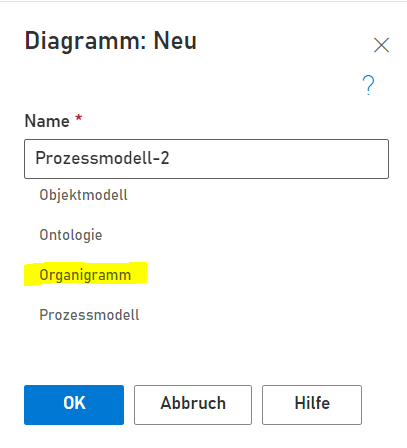
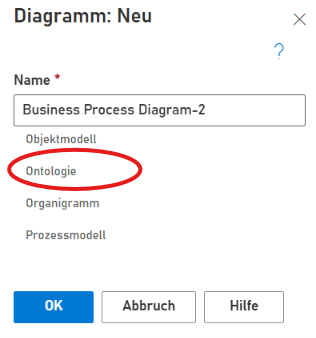
...

diff --git a/Meta Modellierung.md b/Meta Modellierung.md
@@ -1,0 +1,67 @@
+Als Meta Modellierung wird die das Ändern des Notationsschemas bezeichnet. Es wird das sogenannte Meta Modell der jeweiligen Vorlage angepasst.
+Es lassen sich Anpassungen am Verhalten und Aussehen der Modelle vornehmen, um bestimmte Informationen auszudrücken, die in einer Standardnotation nicht vorhanden oder darstellbar sind. So kann definiert werden welche Symbole verfügbar, welche Verbindungen zwischen Symbolen erlaubt sind und wie diese aussehen.
+
+Da Meta Modelle nur mit Vorsicht und Wissen darüber wie das SemTalk Objektmodell funktioniert geändert werden sollten, sind die Dialoge für Anpassungen am Meta Modelle nur für Benutzer mit Administrator oder Meta Modellierer Rolle erlaubt.
+
+# Eine neue Klasse graphisch anlegen und konfigurieren
+
+Soll z.B. ein neues Symbol eingeführt werden, dass einer neuen SemTalk Objektklasse entspricht, muss diese Klasse im SemTalk Objekt-Modell angelegt und konfiguriert werden.
+
+Es muss eine neue Unterklasse im bestehenden Metamodell angelegt werden. Im Beispielbild wird eine Klasse in einem BPMN Metamodell als Unterklasse der BPMN Flußobjekte angelegt. Dies ist ausschließlich als Beispiel zu sehen und kann sich je nach Notation und der Funktion, die die neue Klasse erfüllen soll, unterscheiden. Beispielhaft wird die Klasse "Anwendungssystemtyp" angelegt.
+
+Da dies nur teilweise über die Dialogoberfläche gemacht werden kann, empfiehlt sich die graphische Modellierung. Es werden 3 Schritte benötigt:
+
+### Ein Ontologie Diagramm anlegen und Klasse anlegen
+Über den Menüpunkt Diagramm --> Neu findet sich die Möglichkeit ein neues Diagramm anzulegen. Um Metamodell-Klassen zu erstellen muss der Diagrammtyp "Ontologie" ausgewählt werden.
+![Menü: Neues Diagramm ](./images/metamodellierung/DiagrammNeu.png)
+![Ontologie als neues DIagramm anlegen](./images/metamodellierung/DiagrammNeu2.png)
+
+Damit die neue Klasse als Semtalk Systemklasse erkannt wird, muss die Klasse über das Metamodell Symbol angelegt werden. Dieses muss aus der Schablone auf das Zeichenblatt gezogen werden.
+
+![Objektklasse formatieren](./images/metamodellierung/createmetamodelclass.png)
+
+Anschließend wird dem Symbol der Name der neuen Klasse gegeben.
+
+### Die Klasse in das Metamodell integrieren
+ Die neue Klasse muss nun in das bestehende Metamodell integriert werden. Dafür muss sie mit zwei bestimmten Metamodell-Klassen verbunden werden. 
+ Diese Klassen werden über das Diagramm Symbol dargestellt. Es wird daher das Diagram Symbol aus der Schablone auf das Zeichenblatt gezogen und dann mit Rechtsklick --> Auswählen ein Dialog geöffnet, welcher die bestehenden Klassen anzeigt. 
+* Verknüpfen mit der "Flußobjekt" Klasse: Es wird "Flußobjekt" ausgewählt. Das Diagramm Symbol hat nun diesen Namen. Anschließend wird eine Verbindung von der neuen Klasse zur Flußobjekt Klasse gezogen. Die Verbindung sollte automatisch als Oberklasse angelegt werden. Mit Rechtsklick auf den Verbinder und dort im Kontextmenü Eigenschaften kann überpürft werden um welche Art Verbindung es sich handelt. Falls es sich nicht um eine Oberklasse handelt muss die Verbindung geändert werden (Auswählen auf dem Verbinder).
+
+Hinweis: Evtl. ist es notwendig zuerst in den Optionen des Einfügen Dialogs die Anzeige für Metamodell Klassen zu aktivieren, damit diese eingefügt werden können.
+![Optionsmenü](./images/metamodellierung/expandOption.png)
+![Metamodellklassen anzeigen](./images/metamodellierung/expandOption2.png)
+
+![Klasse auswählen](./images/metamodellierung/ClassBPMNElement.png)
+
+* Verknüpfen mit der "BPMN Element" Klasse: Es wird "BPMN Element" ausgewählt. Das Diagramm Symbol hat nun diesen Namen. Anschließend wird eine Verbindung von der neuen Klasse zur BPMN Element Klasse gezogen. Der Verbindungstyp muss diesmal direkt ausgewählt werden (Rechtsklick --> Auswählen). Dort wird "löst aus" gewählt und als Verbindertyp gesetzt. Anschließend wird ein zweiter Verbinder gezogen und dafür "wird ausgelöst von" gewählt.
+
+![Verbindertyp auswählen](./images/metamodellierung/ClassAssoziation.png)
+
+
+Das Zeichenblatt sollte in etwa so aussehen:
+![Objektklasse formatieren](./images/metamodellierung/metamodelconfigureclass.png)
+
+### Graphische Formatierung der neuen Klasse
+
+Voraussetzung ist dass es das Symbol zur neuen Klasse bereits in der Schablone gibt. Dazu siehe [Wiki Seite: Schablonen-Editor](https://github.com/SemTalkOnline/SemTalkOnline_DE/wiki/Schablonen-Editor).
+
+Wie ein Symbol der neuen Klasse auf dem Zeichenblatt dargestellt wird, kann ebenfalls konfiguriert werden.
+Dafür wird der Formatierungsdialog genutzt. Um die Formatierung für eine Klasse anzulegen, empfiehlt es sich dies zuerst für ein Symbol über den Formatierungsdialog zu machen und das Ergebnis am Ende in die Klasse zu kopieren.
+Hierfür wir das Symbol aus der Schablone auf das Zeichenblatt gezogen und der Formatierungsdialog geöffnet (Rechtklick auf das Symbol --> Formatierung; oder Menüpunkt Symbol --> Formatierung).
+Welche Möglichkeiten es im Dialog gibt können hier [Wiki Seite: Formatierung](https://github.com/SemTalkOnline/SemTalkOnline_DE/wiki/Formatierung) im Detail nachgelesen werden.
+Für das aktuelle Beispiel wird ein SVG Bild verwendet. Dafür wird im Tab "Symbol" bei der Symbol-Auswahlbox "Bild" ausgewählt und im Tab Bild eine URL zu dem SVG Bild hinterlegt.
+![Symbol formatieren](./images/metamodellierung/formatshape.png)
+
+
+![Symbol formatieren](./images/metamodellierung/formatshape2.png)
+
+Anschließend wird das Format als Text, aus dem sich im Tab "Symbol" ganz unten befindlichen Feld "Formatierung", kopiert. 
+Über den Menüpunkt Explorer --> Objekte kann über den Eintrag Flußobjekt zur neuen Klasse navigiert werden. Im 3 Punkte Menü ist der Eintrag "Anpassen" zu finden. Dort lässt sich das individuelle Verhalten und Aussehen der Klasse einstellen.
+![Objekt-Explorer: Unterklasse Format übertragen](./images/metamodellierung/formatclassmenue.png)
+
+Im Feld "Formatierung" des Tabs "Formatierung" wird nun der kopierte Formattext eingefügt. Dieser ist nun auf die Klasse übertragen und wird automatisch genutzt, wenn ein neues Symbol dieser Klasse auf das Zeichenblatt gezogen wird.
+
+![Objekt-Explorer: Unterklasse Format übertragen](./images/metamodellierung/formatclass.png)
+
+
+
